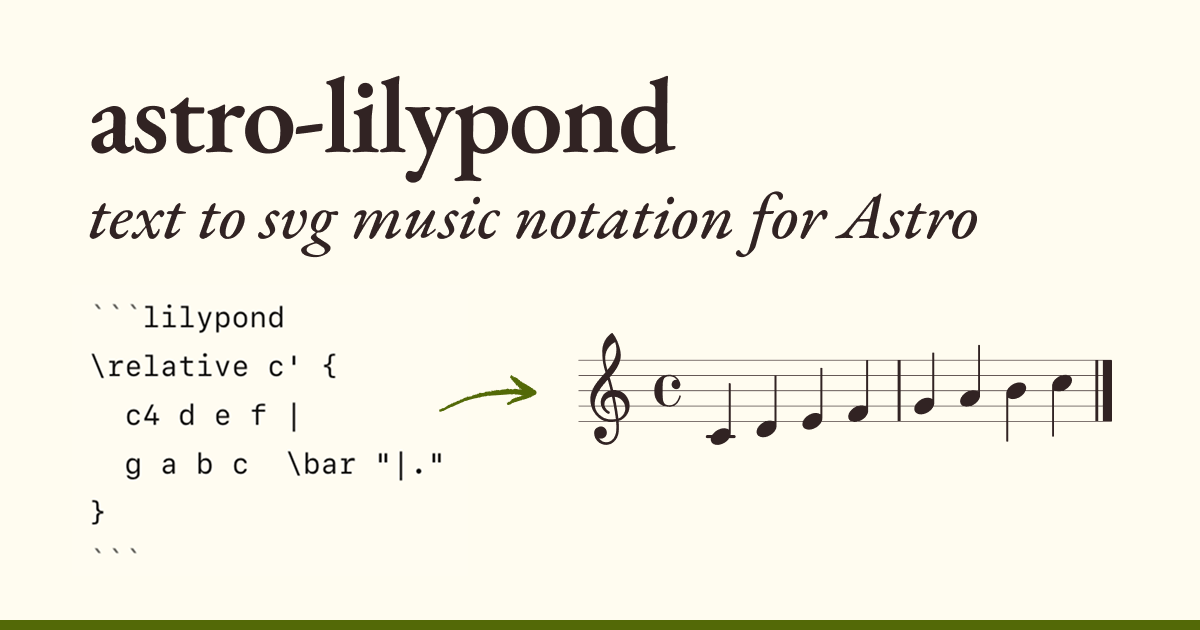
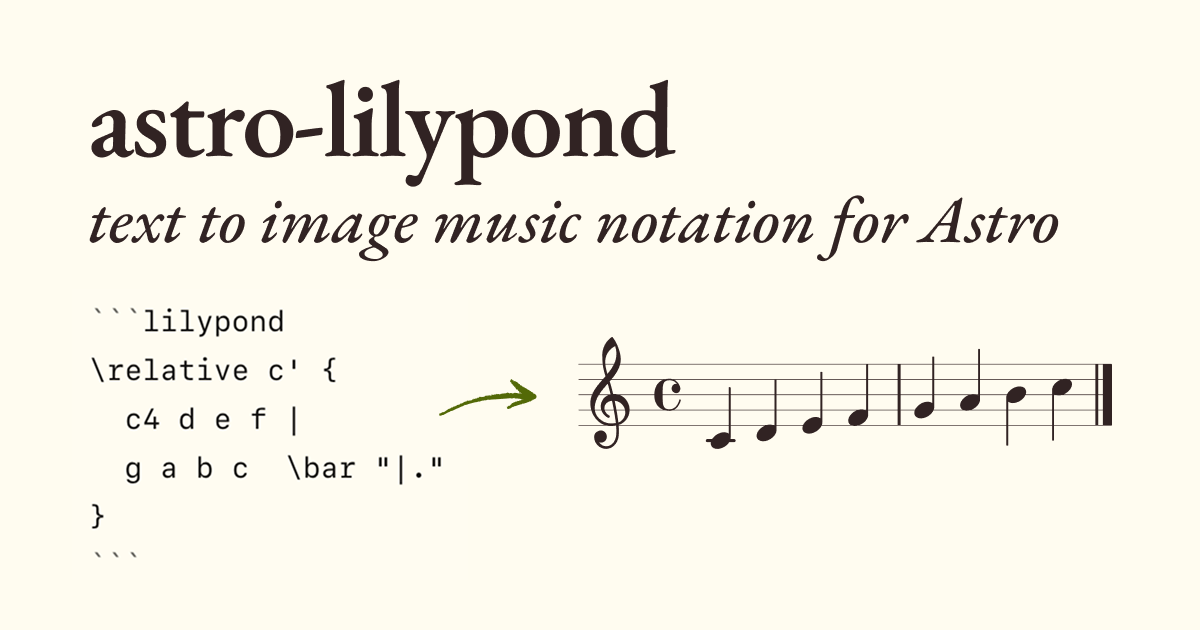
Add new docs for additional resources (#32)

diff --git a/docs/src/content/docs/resources.md b/docs/src/content/docs/resources.md
@@ -1,0 +1,28 @@
+---
+title: Additional Resources
+description: Some helpful links for working with LilyPond.
+---
+
+Here are some resources that [Ky](https://ky.fyi) has found helpful for working with LilyPond:
+
+## Writing with LilyPond
+
+LilyPond can have a bit of a steep learning curve, but these resources can help.
+
+- [An introduction to LilyPond markup](https://lilypond.org/doc/v2.24/Documentation/web/text-input) is a handy single-page look at some of the basic syntax in LilyPond.
+- [LilyPond Notation Reference](https://lilypond.org/doc/v2.24/Documentation/notation/) is the comprehensive manual on all notation possible in LilyPond.
+  - [Notation Cheat Sheet](https://lilypond.org/doc/v2.24/Documentation/notation/cheat-sheet) is a quick reference for the most common notation.
+
+## Editor extensions
+
+These extensions will enable syntax highlighting and other features when working with `.ly` files in your editor of choice:
+
+- [VSLilyPond](https://marketplace.visualstudio.com/items?itemName=lhl2617.vslilypond) provides syntax and error highlighting, IntelliSense and AutoComplete, compilation on save, MIDI (input and playback) support for LilyPond in VSCode. Also on [GitHub](https://github.com/lhl2617/VSLilyPond). 
+- [Zed Extension](https://zed.dev/extensions/lilypond) offers syntax highlighting for LilyPond files in Zed. Also on [GitHub](https://github.com/nwhetsell/lilypond-zed-extension).
+
+## LilyPond examples
+
+Others publish LilyPond files on the web!
+
+- [Mutopia](https://www.mutopiaproject.org/index.html) is a collection of public domain or Creative Commons compositions, many of them including LilyPond source files.
+- [kydecker/sheets](https://github.com/kydecker/sheets) includes a few arrangements from the author of this integration.

diff --git a/docs/src/content/docs/lilypond-syntax.md b/docs/src/content/docs/lilypond-syntax.md
@@ -329,9 +329,3 @@ Use `<<` and `>>` to stack voices on the same staff. `\voiceOne` and `\voiceTwo`
   }
 >>
 ```
-
-## Further reading
-
-- [LilyPond Learning Manual](https://lilypond.org/doc/v2.24/Documentation/learning/)
-- [LilyPond Notation Reference](https://lilypond.org/doc/v2.24/Documentation/notation/)
-- [LilyPond Text Input](https://lilypond.org/doc/v2.24/Documentation/web/text-input)